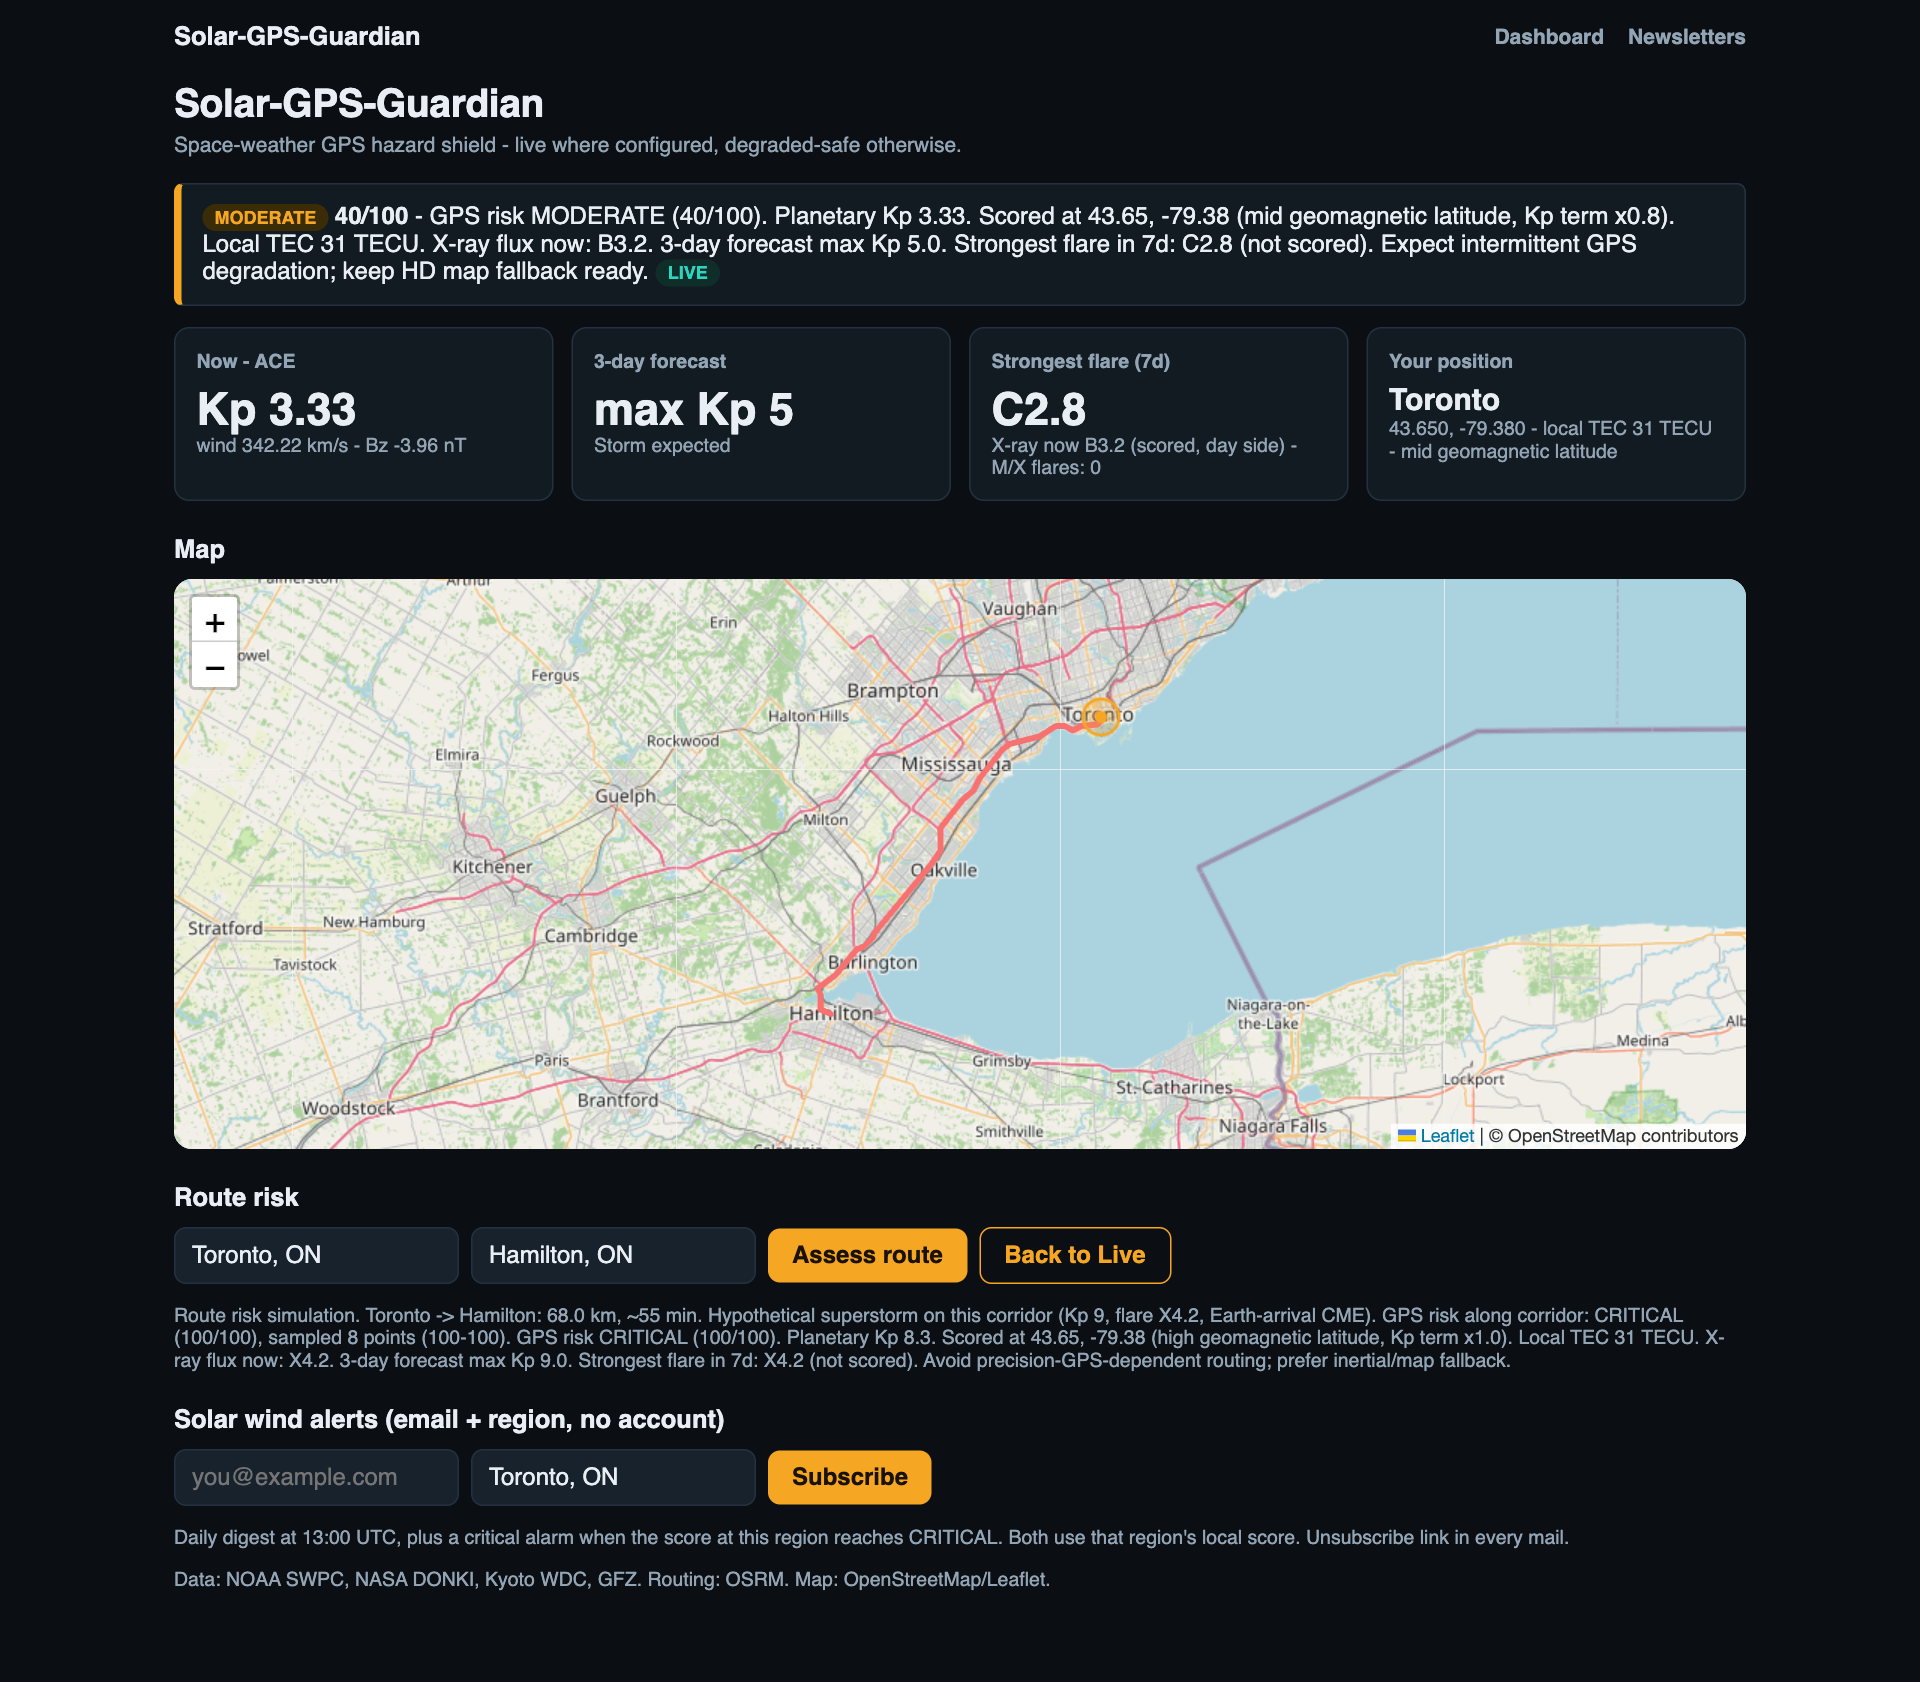
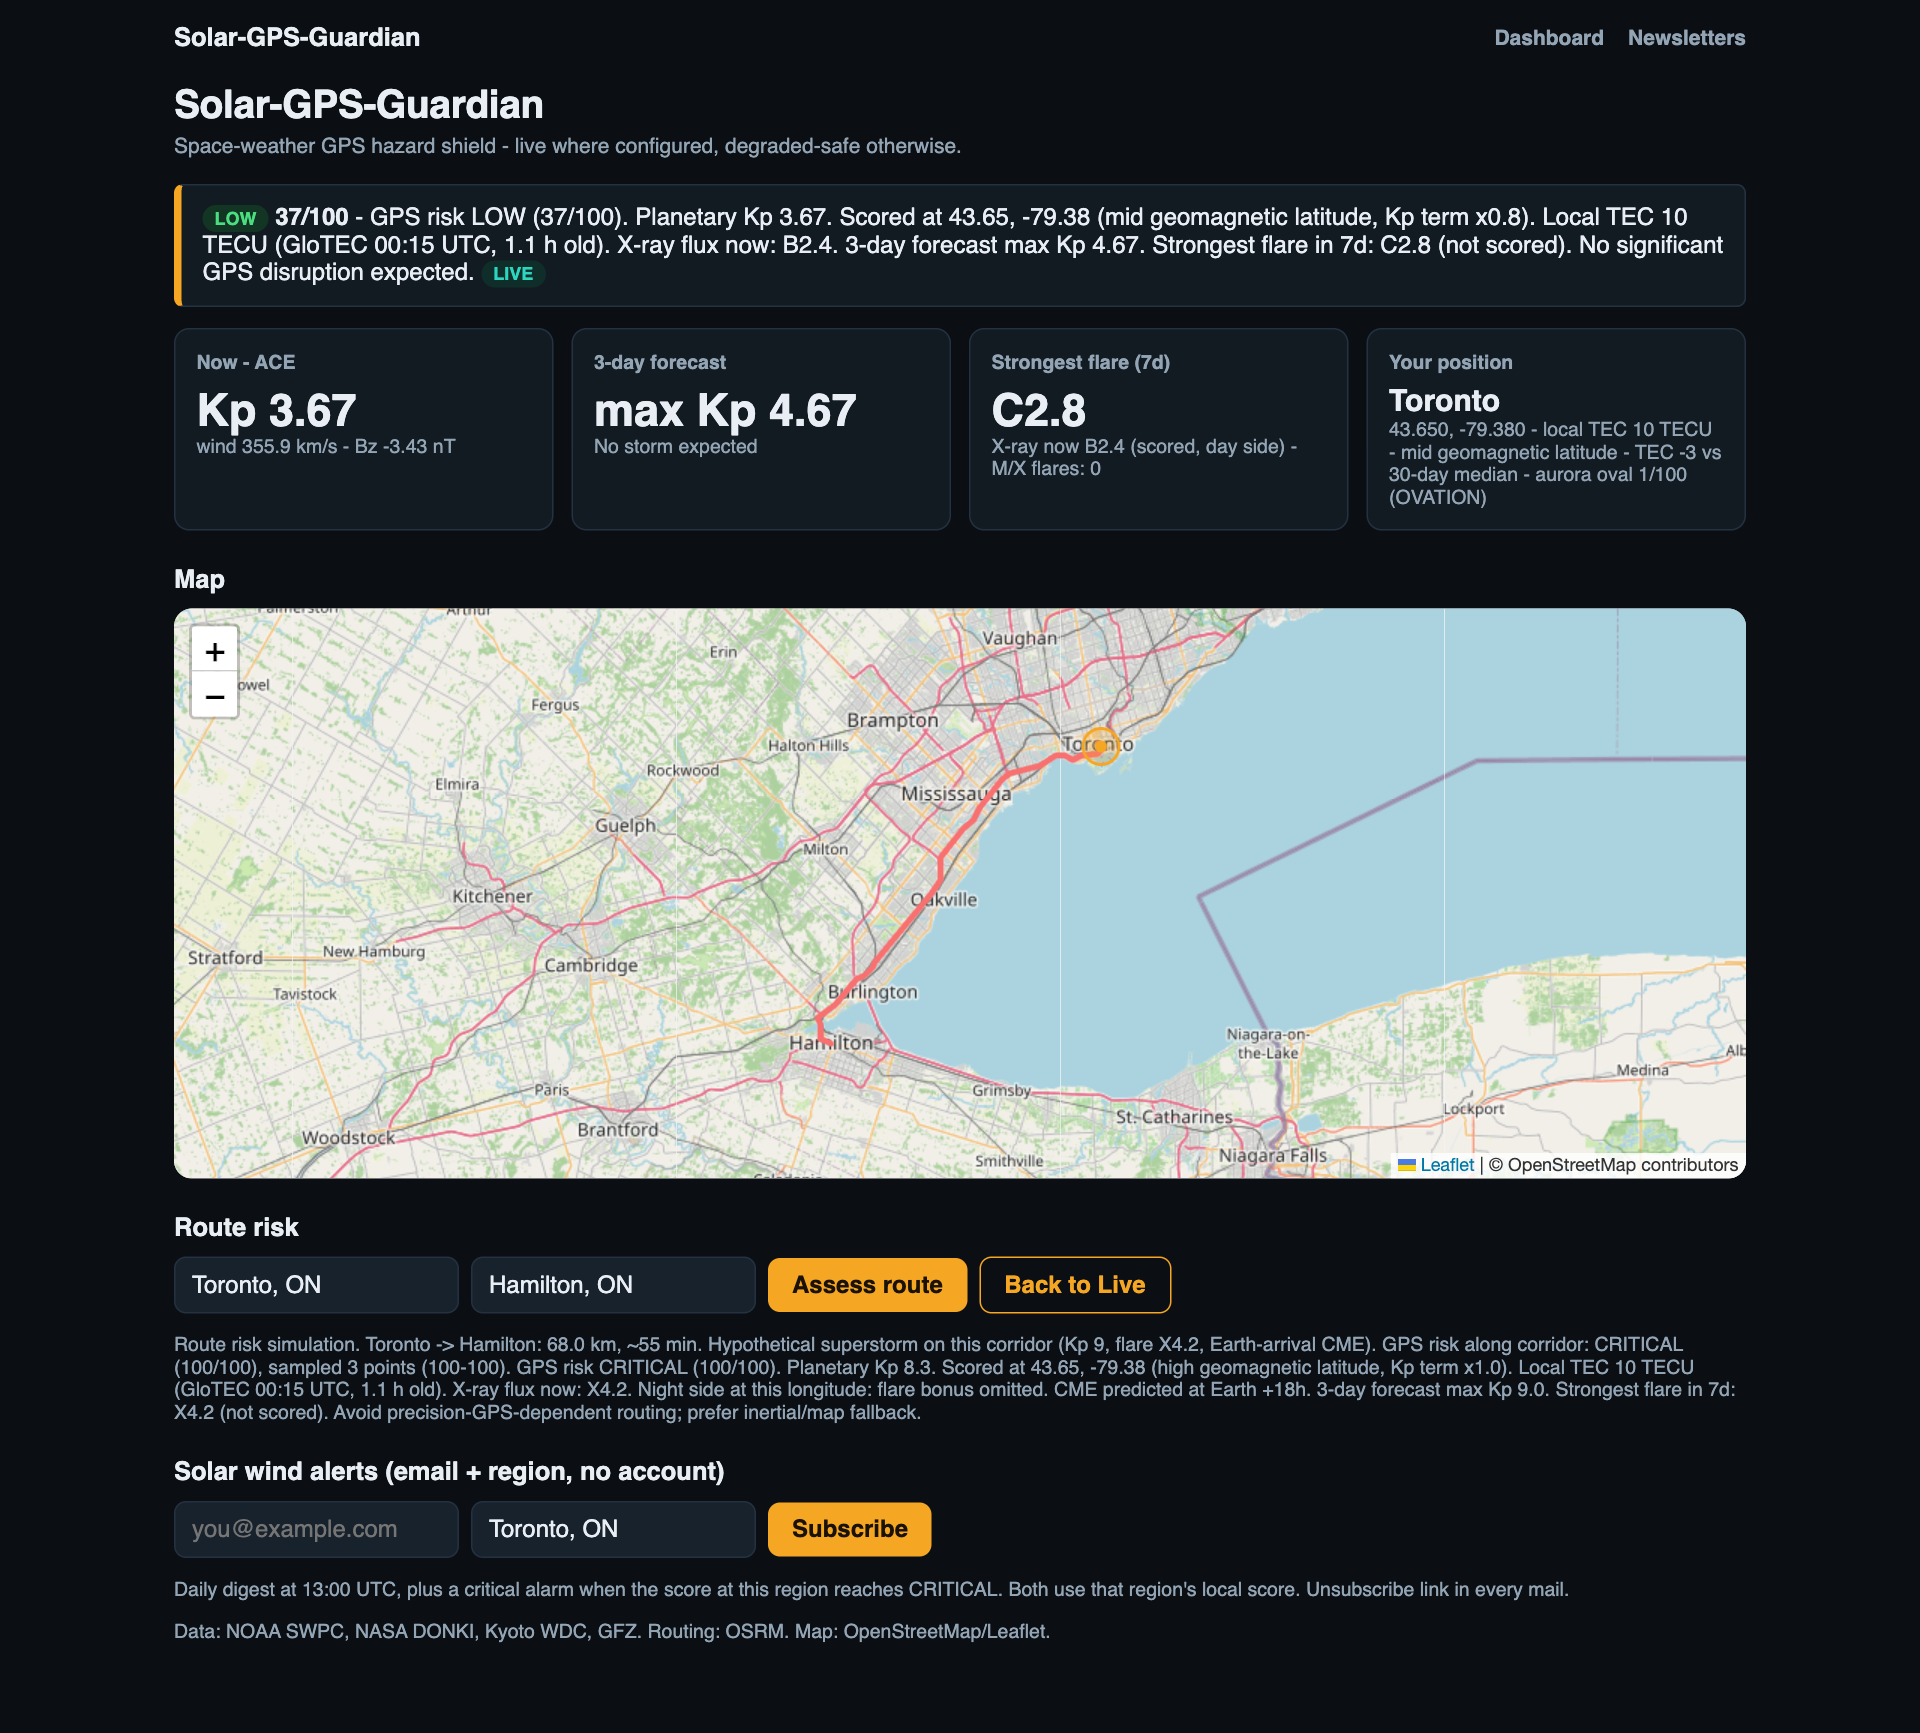
MOD: refine route logic

diff --git a/frontend/lib/routeSample.ts b/frontend/lib/routeSample.ts
@@ -1,0 +1,55 @@
+/**
+ * Route samples for POST /route-score, evenly spaced by distance along the road.
+ *
+ * OSRM puts vertices densely in towns and on curves and sparsely on straight
+ * highway, so picking every k-th vertex bunched samples near cities (Toronto
+ * to Ottawa gaps ran 17 to 104 km). Samples here are interpolated at equal
+ * distances along the polyline. The count follows the length: about one per
+ * SAMPLE_SPACING_KM, at least MIN_SAMPLES (start and end), at most
+ * MAX_SAMPLES (the server's limit).
+ */
+export const SAMPLE_SPACING_KM = 50;
+export const MIN_SAMPLES = 2;
+export const MAX_SAMPLES = 16;
+
+export type SamplePoint = { lat: number; lon: number; label?: string };
+
+const EARTH_KM = 6371;
+
+/** Great-circle distance in km between two [lon, lat] points. */
+export function haversineKm(a: [number, number], b: [number, number]): number {
+  const rad = Math.PI / 180;
+  const dLat = (b[1] - a[1]) * rad;
+  const dLon = (b[0] - a[0]) * rad;
+  const h = Math.sin(dLat / 2) ** 2
+    + Math.cos(a[1] * rad) * Math.cos(b[1] * rad) * Math.sin(dLon / 2) ** 2;
+  return 2 * EARTH_KM * Math.asin(Math.min(1, Math.sqrt(h)));
+}
+
+/** How many samples a route of this length gets. */
+export function sampleCount(lengthKm: number): number {
+  const n = Math.ceil(lengthKm / SAMPLE_SPACING_KM) + 1;
+  return Math.max(MIN_SAMPLES, Math.min(MAX_SAMPLES, n));
+}
+
+/** coords are OSRM [lon, lat] pairs. Returns samples from start to end. */
+export function sampleRoute(coords: [number, number][]): SamplePoint[] {
+  if (!coords.length) return [];
+  if (coords.length === 1) return [{ lat: coords[0][1], lon: coords[0][0], label: "s0" }];
+  const cum = [0];
+  for (let i = 1; i < coords.length; i++) cum.push(cum[i - 1] + haversineKm(coords[i - 1], coords[i]));
+  const total = cum[cum.length - 1];
+  const n = sampleCount(total);
+  const out: SamplePoint[] = [];
+  let j = 0;
+  for (let k = 0; k < n; k++) {
+    const target = (total * k) / (n - 1);
+    while (j < cum.length - 2 && cum[j + 1] < target) j++;
+    const seg = cum[j + 1] - cum[j];
+    const f = seg > 0 ? Math.min(1, Math.max(0, (target - cum[j]) / seg)) : 0;
+    const [lon0, lat0] = coords[j];
+    const [lon1, lat1] = coords[j + 1];
+    out.push({ lat: lat0 + f * (lat1 - lat0), lon: lon0 + f * (lon1 - lon0), label: `s${k}` });
+  }
+  return out;
+}

diff --git a/frontend/lib/api.ts b/frontend/lib/api.ts
@@ -82,17 +82,7 @@ export async function fetchPlanetaryRisk(): Promise<Risk | null> {
   return asRisk(await r.json());
 }
 
-export function sampleRoute(coords: [number, number][], n = 8): RoutePoint[] {
-  if (!coords.length) return [];
-  const count = Math.min(n, coords.length);
-  const out: RoutePoint[] = [];
-  for (let i = 0; i < count; i++) {
-    const idx = count === 1 ? 0 : Math.round((i * (coords.length - 1)) / (count - 1));
-    const [lon, lat] = coords[idx];
-    out.push({ lat, lon, label: `s${i}` });
-  }
-  return out;
-}
+export { sampleRoute } from "./routeSample";
 
 export async function fetchRouteScore(points: RoutePoint[], scenario?: "storm"): Promise<RouteScore | null> {
   if (!API) return null;

diff --git a/backend/tests/test_risk.py b/backend/tests/test_risk.py
@@ -192,6 +192,9 @@ class TestScore(unittest.TestCase):
         self.assertEqual(storm["worst"]["level"], "CRITICAL")
         self.assertEqual(storm["worst"]["score"], 100)
         self.assertGreater(storm["worst"]["score"], live["worst"]["score"])
+        live_gfz = {**quiet, "kp_gfz": {"ok": True, "kp": 3.0}}
+        hypo = score_route(live_gfz, points, scenario="storm")["worst"]["advisory"]
+        self.assertNotIn("Kp sources differ", hypo)
 
 
 if __name__ == "__main__":

diff --git a/backend/local_score.py b/backend/local_score.py
@@ -24,6 +24,9 @@ def storm_snapshot(snapshot):
     base["now"] = dict(STORM_NOW)
     base["forecast_3d"] = dict(STORM_FORECAST)
     base["events"] = dict(STORM_EVENTS)
+    # The live GFZ nowcast is not part of the hypothetical storm; comparing
+    # it with the storm's Kp would print a false "Kp sources differ".
+    base["kp_gfz"] = {}
     base["degraded"] = False
     return base
 

diff --git a/docs/Manual.md b/docs/Manual.md
@@ -60,24 +60,26 @@ The map is Leaflet on OpenStreetMap tiles, centered on that position. An amber p
 
 From and To are place names. Assess route asks Nominatim for coordinates and
 OSRM for a driving path. Those two calls stay in the browser. The page draws
-the full path and prints distance and duration. In the capture above,
-Toronto to Ottawa is 449.8 km, about 317 minutes. All 8 samples scored
-MODERATE, 40/100 (range 40-40), so the line is amber.
+the full path and prints distance and duration. In the capture above
+(2026-11-01, 01:25 UTC), Toronto to Ottawa is 449.8 km, about 317 minutes.
+All 10 samples scored LOW, 37/100 (range 37-37), so the line is teal.
 
 The corridor score is not the banner score copied onto the line. The page
-keeps at most 8 vertices from the OSRM line. The first vertex and the last
-are always included. The other six are spaced evenly through the vertex
-list, so the gaps follow how many points OSRM returned, not kilometers
-along the road. A shorter line, one with 8 or fewer vertices, sends every
-vertex. Those points go to `POST /route-score`.
+samples the OSRM line at equal distances along the road: about one point
+every 50 km, at least 2 (the start and the end) and at most 16. Toronto to
+Hamilton (68 km) gets 3 points, Toronto to Ottawa (450 km) 10 points 50 km
+apart, and Toronto to Chicago (839 km) 16 points 56 km apart. The points
+are interpolated on the line, so they need not be OSRM vertices. (OSRM
+puts vertices densely in towns and sparsely on highways, so the earlier
+every-k-th-vertex sampling left gaps from 17 to 104 km on Toronto to
+Ottawa.) Those points go to `POST /route-score`.
 
 Each sample uses the same score as the banner and the mail: nearest TEC
 cell, geomagnetic-latitude band on the Kp term only (the high band reaches
 farther south in strong storms), and no bonus for a flare in progress on the
 night side. Planetary Kp, the 3-day forecast, and any Earth-arrival CME
 are the same at every sample. What can differ along the road is TEC, the
-latitude band, and day or night. The server accepts at most 16 points. The
-page sends 8.
+latitude band, and day or night. The server accepts at most 16 points.
 
 The number in the sentence is the highest sample, not the average. A quiet
 stretch does not pull that number down. The same sentence prints the lowest
@@ -111,11 +113,11 @@ One button cycles through three views. The label is the next view.
    then reads Simulate Route Risk. The capture above is this card.
 3. Route risk. The next click returns the banner to the live position
    score and scores the current From and To fields. Those fields start as
-   Toronto, ON and Hamilton, ON. The page draws that OSRM path, samples up
-   to 8 vertices, and posts them to `/route-score` with `scenario` set to
-   `storm`. The server scores those samples with the same superstorm
+   Toronto, ON and Hamilton, ON. The page draws that OSRM path, samples it
+   the same way (3 points for Toronto to Hamilton), and posts them to
+   `/route-score` with `scenario` set to `storm`. The server scores those samples with the same superstorm
    numbers (Kp 8.3, forecast maximum Kp 9, an X4.2 flare in progress, one
-   Earth-arrival CME). The clock and the TEC grid stay live, so night side
+   Earth-arrival CME); the live GFZ Kp is left out of this hypothetical. The clock and the TEC grid stay live, so night side
    and local TEC still change the sample. The line color and the sentence
    use the highest of those hypothetical samples. The button then reads
    Back to Live.

diff --git a/docs/Tech_Stack.md b/docs/Tech_Stack.md
@@ -87,9 +87,10 @@ shows DEGRADED MODE, and the sentence names the missing feed.
 and their limits are in [Pipeline_Study.md](Pipeline_Study.md).
 
 The page does not recompute the score. The banner calls
-`GET /local-score`. A route calls `POST /route-score` with up to 8 samples
-of the OSRM line, including the start and the end, spaced through the
-vertex list. The corridor score is the highest sample. See `Manual.md` for
+`GET /local-score`. A route calls `POST /route-score` with samples of the
+OSRM line taken at equal distances along the road, about one per 50 km,
+2 to 16 of them including the start and the end (`frontend/lib/routeSample.ts`,
+tested with `npm test`). The corridor score is the highest sample. See `Manual.md` for
 what the sentence and the line color show. Demo mode and the superstorm
 step use fixed labels because those cards are not on the server. The
 route-risk step of the same button sends `scenario=storm`, so those
